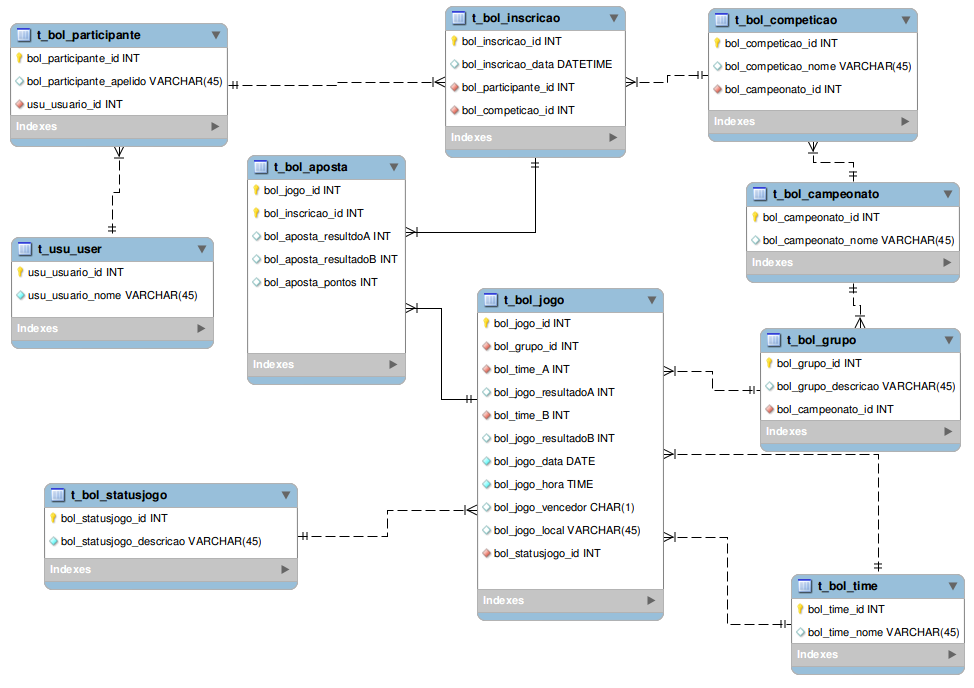
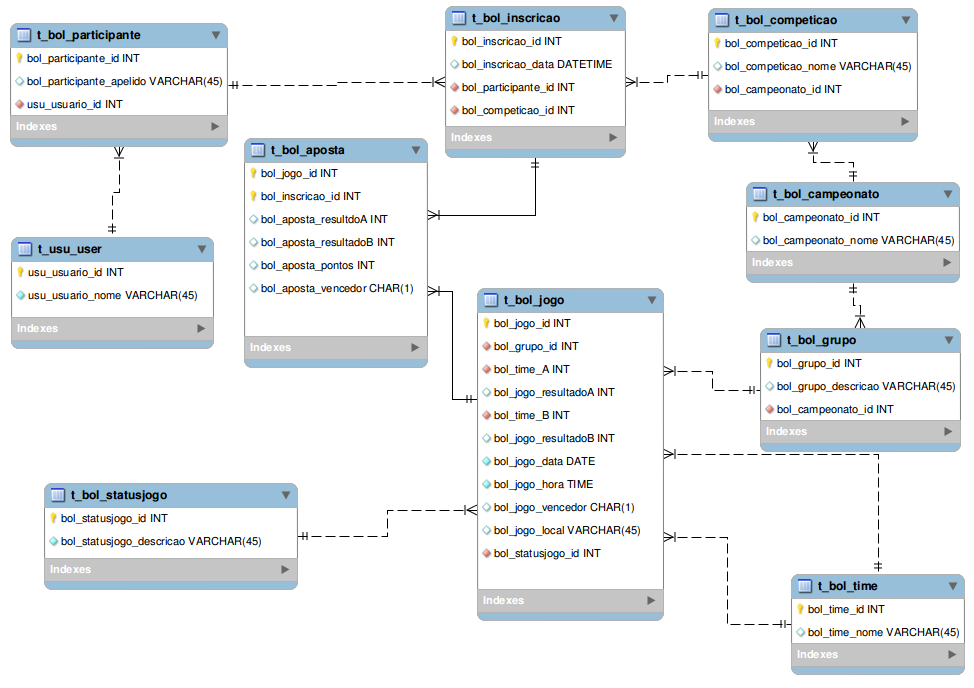
criando calculo das apostas

Changed region(s): [[0.2464, 0.1831, 0.462, 0.4578], [0.2464, 0.4884, 0.462, 0.5799], [0.4312, 0.3052, 0.462, 0.3358]]

diff --git a/bolao/templates/rancking.html b/bolao/templates/rancking.html
@@ -8,6 +8,10 @@
 	  </ul>
 	</div>			
 
+	<div class="text-right">
+		<a href="/aposta_calc/" class="btn btn-success">Calcular</a>
+	</div>	
+
 	<br/>
 
 	<table class="table table-striped table-hover well">
@@ -23,6 +27,6 @@
 			<td>{{ p.soma }}</td>
 		</tr>
 		{% empty %}
-			<h1>Não há produtos cadastrados</h1>
+			<h1>Não há participantes cadastrados</h1>
 		{% endfor %}
 	</table>

diff --git a/bolao/templates/aposta.html b/bolao/templates/aposta.html
@@ -2,7 +2,7 @@
 
 
 	<h1>Apostas</h1>
-		
+	
 	<div class="pagination pagination-centered">
 	  <ul>
 		<li><a href="#">&larr;</a></li>

diff --git a/core/views.py b/core/views.py
@@ -1,5 +1,6 @@
 # Create your views here.
 from django.shortcuts import render_to_response
+from django.shortcuts import redirect
 from core.models import Participante
 from core.models import Jogo
 from core.models import Aposta
@@ -16,3 +17,30 @@ def tabela(request, tipo):
 def aposta(request):
 	apostas = Aposta.objects.all()
 	return render_to_response('_base.html', {'template': 'aposta.html', 'apostas': apostas})
+
+def aposta_calc(request):
+	#participantes = Inscricao.objects.all()
+	
+	jogos = Jogo.objects.all()
+	for j in jogos:
+		if j.resultado_a > j.resultado_b:
+			j.vencedor = 'A'
+		else if j.resultado_a < j.resultado_b:
+			j.vencedor = 'B'
+		else:
+			j.vencedor = 'E'
+		j.save()
+	
+		apostas = Aposta.objects.all()
+		for a in apostas:
+			if (a.resultado_a == j.resultado_a) and (a.resultado_b == j.resultado_b):
+				a.pontos = 7
+			else if (a.vencedor == j.vencedor) and (a.vencedor != 'E'):
+				a.pontos = 5
+			else if (a.vencedor == j.vencedor) and (a.vencedor == 'E'):
+				a.pontos = 4
+			else:
+				a.pontos = 0
+			a.save()						
+	
+	return redirect('rancking')

diff --git a/core/models.py b/core/models.py
@@ -81,6 +81,7 @@ class Aposta(models.Model):
 	resultado_a = models.IntegerField()
 	resultado_b = models.IntegerField()
 	pontos = models.IntegerField()
+	vencedor = models.CharField(max_length=1, blank=True) # (A - B - E)
 	
 	def __unicode__(self):
 		return self.inscricao.participante.apelido + " / " + self.jogo.time_a + " " + str(self.jogo.resultado_a) + " X " + str(self.jogo.resultado_b) + " " + self.jogo.time_b + " / " + str(self.jogo.data_hora) + " / Local: " + self.jogo.local + " / " + self.jogo.status.descricao

diff --git a/bolao/urls.py b/bolao/urls.py
@@ -16,9 +16,10 @@ urlpatterns = patterns('',
     # Uncomment the next line to enable the admin:
     url(r'^admin/', include(admin.site.urls)),
     
-    url(r'^rancking/$', 'core.views.rancking'),
+    url(r'^rancking/$', 'core.views.rancking', name='rancking'),
     url(r'^tabela/(?P<tipo>\d+)/$', 'core.views.tabela'),
     url(r'^aposta/$', 'core.views.aposta'),
+    url(r'^aposta_calc/$', 'core.views.aposta_calc'),
 )
 
 if settings.DEBUG:
